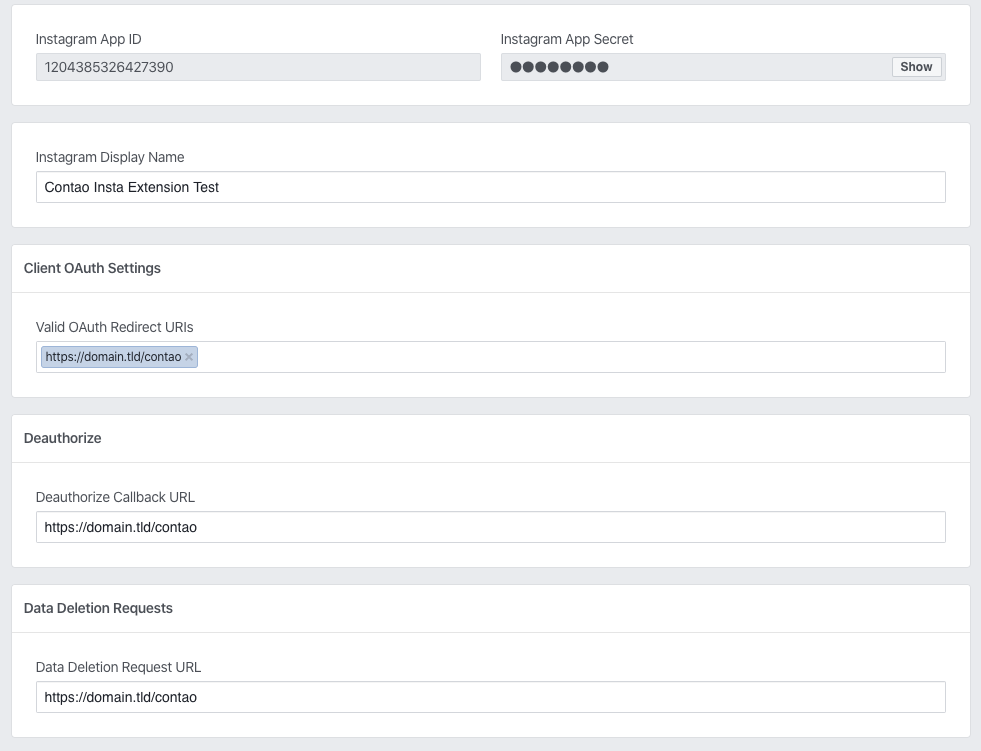
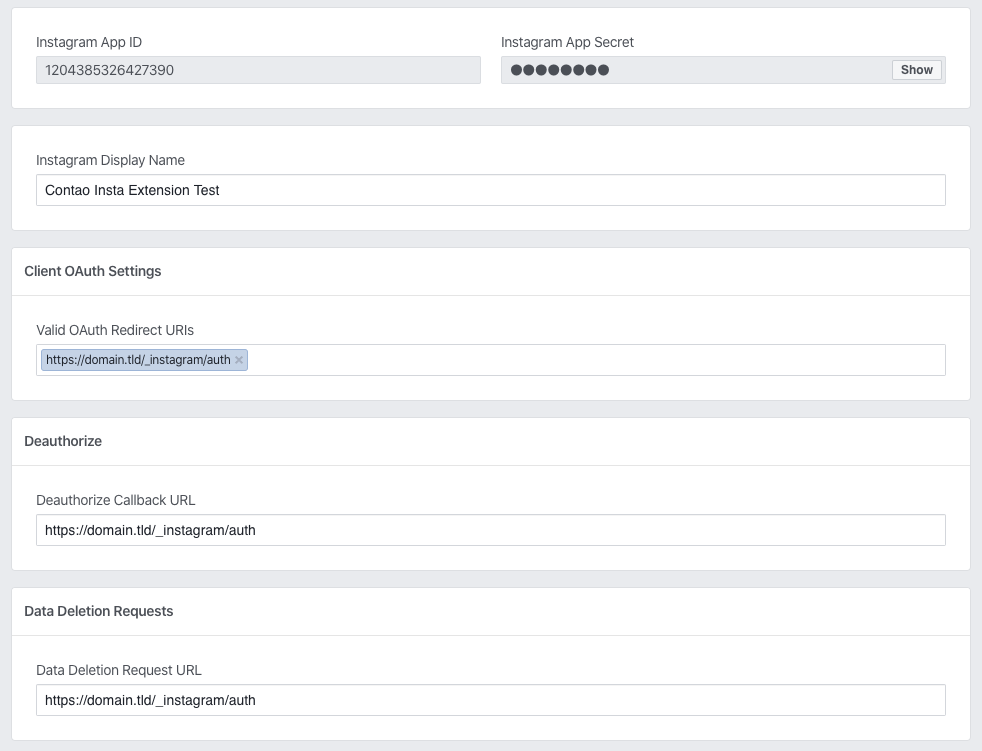
Convert to bundle and adapt to new Instagram API

diff --git a/src/FrontendModule/InstagramModule.php b/src/FrontendModule/InstagramModule.php
@@ -19,6 +19,10 @@ use Contao\FilesModel;
 use Contao\Module;
 use Contao\StringUtil;
 use Contao\System;
+use GuzzleHttp\Client;
+use GuzzleHttp\Exception\ClientException;
+use GuzzleHttp\Exception\ServerException;
+use Patchwork\Utf8;
 
 class InstagramModule extends Module
 {
@@ -46,7 +50,7 @@ class InstagramModule extends Module
         if (TL_MODE === 'BE') {
             $template = new BackendTemplate('be_wildcard');
 
-            $template->wildcard = '### '.utf8_strtoupper($GLOBALS['TL_LANG']['FMD']['cfg_instagram'][0]).' ###';
+            $template->wildcard = '### '.Utf8::strtoupper($GLOBALS['TL_LANG']['FMD']['cfg_instagram'][0]).' ###';
             $template->title = $this->headline;
             $template->id = $this->id;
             $template->link = $this->name;
@@ -107,7 +111,7 @@ class InstagramModule extends Module
      */
     protected function getUserData()
     {
-        $response = $this->sendRequest('https://api.instagram.com/v1/users/self');
+        $response = $this->sendRequest('https://graph.instagram.com/me/media', ['fields' => 'id,username']);
 
         if (null === $response) {
             return [];
@@ -123,18 +127,20 @@ class InstagramModule extends Module
      */
     protected function getFeedItems()
     {
+        $options = [];
+
         switch ($this->cfg_instagramEndpoint) {
             case 'user':
-                $endpoint = 'https://api.instagram.com/v1/users/self/media/recent';
+                $endpoint = 'https://graph.instagram.com/me/media';
+                $options['fields'] = 'id,caption,media_type,media_url,permalink,timestamp';
                 break;
+            // @todo – remove finding by tag as it is not supported
             case 'tag':
                 $endpoint = sprintf('https://api.instagram.com/v1/tags/%s/media/recent', $this->cfg_instagramTag);
                 break;
             default:
                 return [];
         }
-
-        $options = [];
 
         // Set the limit only if greater than zero (#10)
         if ($this->numberOfItems > 0) {
@@ -193,22 +199,26 @@ class InstagramModule extends Module
         }
 
         foreach ($data as &$item) {
-            $url = $item['images']['standard_resolution']['url'];
-            $extension = pathinfo(explode('?', $url)[0], PATHINFO_EXTENSION);
+            if ($item['media_type'] !== 'IMAGE') {
+                continue;
+            }
+
+            $extension = pathinfo(explode('?', $item['media_url'])[0], PATHINFO_EXTENSION);
             $file = new File(sprintf('%s/%s.%s', $folderModel->path, $item['id'], $extension));
 
             // Download the image
             if (!$file->exists()) {
-                $ch = curl_init();
-                curl_setopt_array($ch, [CURLOPT_RETURNTRANSFER => true, CURLOPT_URL => $url]);
-                $response = curl_exec($ch);
-                curl_close($ch);
+                try {
+                    $response = (new Client())->get($item['media_url']);
+                } catch (ClientException | ServerException $e) {
+                    System::log(sprintf('Unable to fetch Instagram image from "%s": %s', $item['media_url'], $e->getMessage()), __METHOD__, TL_ERROR);
+
+                    continue;
+                }
 
                 // Save the image and add sync the database
-                if (false !== $response) {
-                    $file->write($response);
-                    $file->close();
-                }
+                $file->write($response->getBody());
+                $file->close();
             }
 
             // Store the UUID in cache
@@ -224,32 +234,28 @@ class InstagramModule extends Module
      * Execute the request to Instagram.
      *
      * @param string $url
+     * @param array $query
      *
      * @return array|null
      */
-    private function executeRequest($url, array $data = [])
+    private function executeRequest($url, array $query = [])
     {
-        $ch = curl_init();
-
-        curl_setopt_array($ch, [
-            CURLOPT_RETURNTRANSFER => true,
-            CURLOPT_URL => $url.'?'.http_build_query($data),
-        ]);
-
-        $response = json_decode(curl_exec($ch), true);
-
-        curl_close($ch);
-
-        if (null === $response || !$response['data'] || 200 !== $response['meta']['code']) {
-            System::log(
-                sprintf('Unable to fetch Instagram data: %s, %s, %s', $url, print_r($data, true), $response),
-                __METHOD__,
-                TL_ERROR
-            );
+        try {
+            $response = (new Client())->get($url, ['query' => $query]);
+        } catch (ClientException | ServerException $e) {
+            System::log(sprintf('Unable to fetch Instagram data from "%s": %s', $url, $e->getMessage()), __METHOD__, TL_ERROR);
 
             return null;
         }
 
-        return $response;
+        $data = json_decode($response->getBody(), true);
+
+        if (!is_array($data) || json_last_error() !== JSON_ERROR_NONE) {
+            System::log(sprintf('Unable to decode Instagram data from "%s": %s', $url, json_last_error_msg()), __METHOD__,TL_ERROR);
+
+            return null;
+        }
+
+        return $data;
     }
 }

diff --git a/src/Controller/InstagramController.php b/src/Controller/InstagramController.php
@@ -85,13 +85,15 @@ class InstagramController
             return new Response(Response::$statusTexts[Response::HTTP_UNAUTHORIZED], Response::HTTP_UNAUTHORIZED);
         }
 
+        $sessionData = $this->session->get(ModuleListener::SESSION_KEY);
+
         // Module ID not found in session
-        if (!($moduleId = $this->session->get(ModuleListener::SESSION_KEY))) {
+        if ($sessionData === null || !isset($sessionData['moduleId'])) {
             return new Response(Response::$statusTexts[Response::HTTP_BAD_REQUEST], Response::HTTP_BAD_REQUEST);
         }
 
         // Module not found
-        if (false === ($module = $this->db->fetchAssoc('SELECT * FROM tl_module WHERE id=?', [$moduleId]))) {
+        if (false === ($module = $this->db->fetchAssoc('SELECT * FROM tl_module WHERE id=?', [$sessionData['moduleId']]))) {
             return new Response(Response::$statusTexts[Response::HTTP_BAD_REQUEST], Response::HTTP_BAD_REQUEST);
         }
 
@@ -101,16 +103,10 @@ class InstagramController
             return new Response(Response::$statusTexts[Response::HTTP_INTERNAL_SERVER_ERROR], Response::HTTP_INTERNAL_SERVER_ERROR);
         }
 
-        $this->db->update('tl_module', ['cfg_instagramAccessToken' => $accessToken], ['id' => $moduleId]);
+        $this->db->update('tl_module', ['cfg_instagramAccessToken' => $accessToken], ['id' => $sessionData['moduleId']]);
+        $this->session->remove(ModuleListener::SESSION_KEY);
 
-        return new RedirectResponse($this->router->generate('contao_backend', [
-            'do' => 'themes',
-            'table' => 'tl_module',
-            'id' => $moduleId,
-            'act' => 'edit',
-//            'ref' => '', // @todo
-//            'rt' => '', // @todo
-        ]));
+        return new RedirectResponse($sessionData['backUrl']);
     }
 
     /**
@@ -125,11 +121,13 @@ class InstagramController
     {
         try {
             $response = (new Client())->post('https://api.instagram.com/oauth/access_token', [
-                'app_id' => $module['cfg_instagramAppId'],
-                'app_secret' => $module['cfg_instagramAppSecret'],
-                'grant_type' => 'authorization_code',
-                'redirect_uri' => $this->router->generate('instagram_auth', [], RouterInterface::ABSOLUTE_URL),
-                'code' => $code,
+                'form_params' => [
+                    'app_id' => $module['cfg_instagramAppId'],
+                    'app_secret' => $module['cfg_instagramAppSecret'],
+                    'grant_type' => 'authorization_code',
+                    'redirect_uri' => $this->router->generate('instagram_auth', [], RouterInterface::ABSOLUTE_URL),
+                    'code' => $code,
+                ],
             ]);
         } catch (ClientException | ServerException $e) {
             $this->logger->error(sprintf('Unable to fetch the Instagram access token: %s', $e->getMessage()), ['contao' => new ContaoContext(__METHOD__, TL_ERROR)]);

diff --git a/src/EventListener/ModuleListener.php b/src/EventListener/ModuleListener.php
@@ -12,8 +12,9 @@
 
 namespace Codefog\InstagramBundle\EventListener;
 
-use Contao\Controller;
+use Contao\CoreBundle\Exception\RedirectResponseException;
 use Contao\DataContainer;
+use Contao\Environment;
 use Contao\Input;
 use Symfony\Component\HttpFoundation\Session\SessionInterface;
 use Symfony\Component\Routing\RouterInterface;
@@ -68,7 +69,11 @@ class ModuleListener
      */
     private function requestAccessToken($clientId)
     {
-        $this->session->set(self::SESSION_KEY, Input::get('id'));
+        $this->session->set(self::SESSION_KEY, [
+            'moduleId' => Input::get('id'),
+            'backUrl' => Environment::get('uri'),
+        ]);
+
         $this->session->save();
 
         $data = [
@@ -77,7 +82,7 @@ class ModuleListener
             'response_type' => 'code',
             'scope' => 'user_profile,user_media',
         ];
-print_r($data);exit;
-        Controller::redirect('https://api.instagram.com/oauth/authorize/?'.http_build_query($data));
+
+        throw new RedirectResponseException('https://api.instagram.com/oauth/authorize/?'.http_build_query($data));
     }
 }

diff --git a/src/Resources/contao/dca/tl_module.php b/src/Resources/contao/dca/tl_module.php
@@ -13,7 +13,7 @@
 /**
  * Add global callbacks.
  */
-$GLOBALS['TL_DCA']['tl_module']['config']['onsubmit_callback'][] = ['codefog_instagram.listener.module', 'onSubmitCallback'];
+$GLOBALS['TL_DCA']['tl_module']['config']['onsubmit_callback'][] = [\Codefog\InstagramBundle\EventListener\ModuleListener::class, 'onSubmitCallback'];
 
 /*
  * Add palettes
@@ -59,7 +59,7 @@ $GLOBALS['TL_DCA']['tl_module']['fields']['cfg_instagramRequestToken'] = [
     'inputType' => 'checkbox',
     'eval' => ['doNotSaveEmpty' => true, 'tl_class' => 'w50 m12'],
     'save_callback' => [
-        ['codefog_instagram.listener.module', 'onRequestTokenSave'],
+        [\Codefog\InstagramBundle\EventListener\ModuleListener::class, 'onRequestTokenSave'],
     ],
 ];
 

diff --git a/docs/README.md b/docs/README.md
@@ -11,7 +11,7 @@ One important thing to note is that for all app URIs listed:
 - Deauthorize Callback URL
 - Data Deletion Request Callback URL
 
-you have to enter your domain name + `/contao` suffix, e.g. `https://domain.tld/contao`: 
+you have to enter your domain name + `/_instagram/auth` suffix (without a trailing slash!), e.g. `https://domain.tld/_instagram/auth`: 
 
 ![](images/instagram-1.png)
 
@@ -53,6 +53,8 @@ documentation that contains information about the data you can obtain from the A
 
 1. https://developers.facebook.com/docs/instagram-basic-display-api/
 
+> As of version 2.0 of the extension and changes in Instagram API, it is no longer possible to filter media files
+> by a #hashtag. This option has been dropped in version 2.0.0 of the extension.
 
 ## About errors
 
